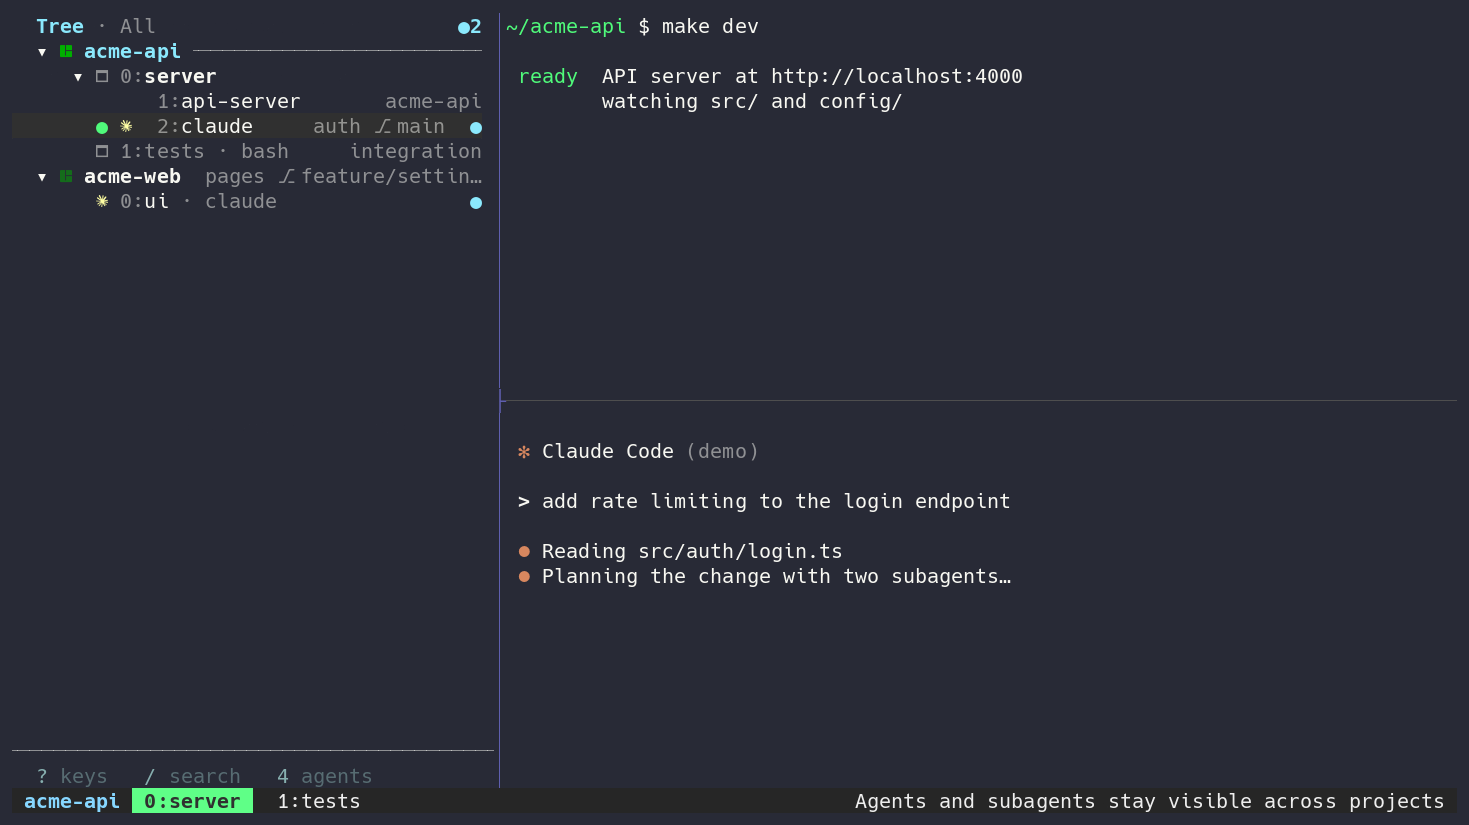
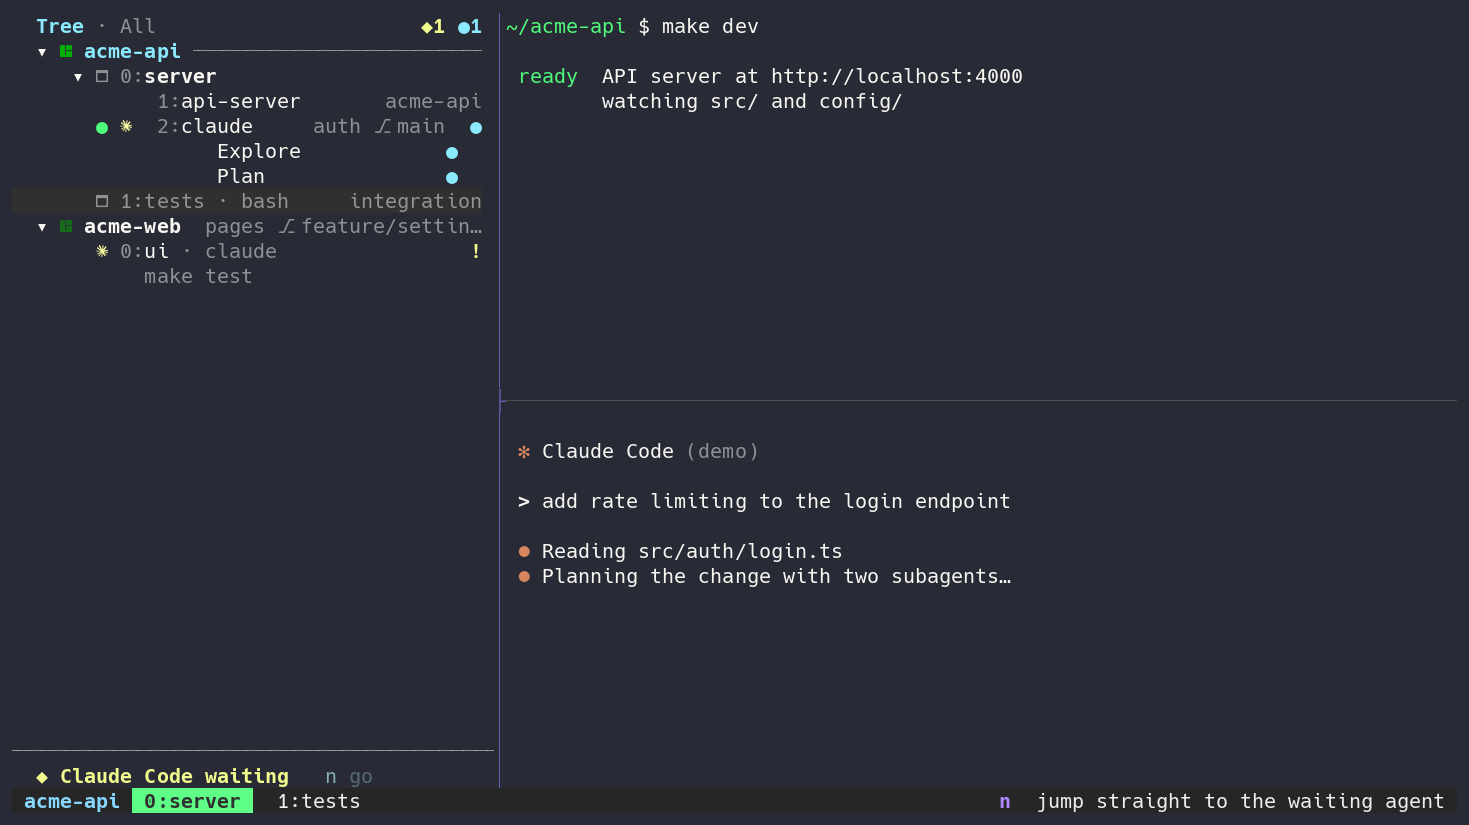
show agent toggle and help in demo

diff --git a/docs/demo/record.py b/docs/demo/record.py
@@ -35,7 +35,7 @@ def main():
     parser.add_argument('--output', default=str(ROOT / 'docs' / 'assets'), help='directory for the .cast and .gif')
     parser.add_argument('--font-family', default='Hack Nerd Font Mono,JetBrains Mono,Menlo')
     parser.add_argument('--theme', default='dracula')
-    parser.add_argument('--poster', type=float, default=26, help='preview GIF time in seconds for the still')
+    parser.add_argument('--poster', type=float, default=41, help='preview GIF time in seconds for the still')
     parser.add_argument('--demo', choices=('both', 'preview', 'walkthrough'), default='both')
     args = parser.parse_args()
     if args.demo == 'both':
@@ -359,6 +359,17 @@ tmux() {{
                 caption(f'{key}prefix T{plain}  open Canopy')
                 keys('C-b', 'T', pause=.15)
                 time.sleep(2.2)
+                caption(f'{key}A{plain}  turn agent monitoring off')
+                keys('A', pause=.2)
+                time.sleep(2.6)
+                caption(f'{key}A{plain}  turn agent monitoring back on')
+                keys('A', pause=.2)
+                time.sleep(2.6)
+                caption(f'{key}?{plain}  open the built-in help')
+                keys('?', pause=.2)
+                time.sleep(2.5)
+                keys('q', pause=.2)
+                time.sleep(1.2)
                 caption(f'{key}j k{plain}  browse · {key}h l{plain}  fold branches')
                 keys('j', 'j', 'k', pause=.3)
                 time.sleep(1.3)

diff --git a/CHANGELOG.md b/CHANGELOG.md
@@ -7,7 +7,7 @@
 - In `quiet`, every view names itself the same way. The Processes and Buffers views read `Processes` and `Buffers` with their row count on the right (`12 processes`) instead of a tab strip, and gain a footer with their main action and the way back (`Enter focus   1 tree   a actions`). With agent mode off, the Tree header says `agent mode off`, so it no longer looks like a server with no agents running.
 - Previews show a directory under your home directory as `~/…` in the window preview and the agent summary too, as the pane preview already did, leaving room for the rest of the path.
 - Each plugin load removes everything at Canopy's own tmux hook indexes (9000-9099) and command-alias indexes (9100-9199) before adding what the current settings need, instead of a fixed list of hooks. A hook an older version left at those indexes is cleared too; your own hooks and aliases at other indexes are untouched. Settings with fixed values or a number now share one check each, with the default written once.
-- The README demo now starts at a blank terminal and builds a tmux workspace before opening Canopy. Its high-resolution 16:9 recording uses larger text, a cleaner tmux status line, and a visible session/window/pane workflow. Fictional repositories, branches, nested project directories, a development server, and test files make the resulting panes look like active work before the sidebar and agent-monitoring tour.
+- The README demo now starts at a blank terminal and builds a tmux workspace before opening Canopy. Its high-resolution 16:9 recording uses larger text, a cleaner tmux status line, and a visible session/window/pane workflow. Fictional repositories, branches, nested project directories, a development server, and test files make the resulting panes look like active work. The sidebar tour toggles agent monitoring, opens the built-in help, and then demonstrates cross-session agent awareness.
 
 ### Fixed
 

diff --git a/README.md b/README.md
@@ -10,9 +10,9 @@ Canopy keeps your sessions, windows, and panes in a persistent tree that follows
 
 ## Preview
 
-[![Canopy demo: start tmux, create and rename windows, split a pane, open the sidebar, browse the tree, and jump to an agent waiting in another session](docs/assets/canopy-demo.gif?v=9)](docs/assets/canopy-demo.gif?v=9)
+[![Canopy demo: build a tmux workspace, open the sidebar, toggle agent monitoring, view help, browse the tree, and jump to a waiting agent](docs/assets/canopy-demo.gif?v=10)](docs/assets/canopy-demo.gif?v=10)
 
-**Build a tmux workspace, then see it from above.** This 38-second demo starts at a blank shell, builds windows and panes across two fictional projects, runs a development server, opens Canopy, and jumps to an agent waiting in another session. Scripted fixtures and agent events keep the recording reproducible and private. [Watch the focused feature tour](docs/assets/canopy-walkthrough.gif?v=9) for search, previews, Agents view, alerts, and floating popup mode. [View a still image](docs/assets/canopy-demo.png?v=9).
+**Build a tmux workspace, then see it from above.** This 47-second demo starts at a blank shell, builds windows and panes across two fictional projects, runs a development server, opens Canopy, toggles agent monitoring, shows the built-in help, and jumps to an agent waiting in another session. Scripted fixtures and agent events keep the recording reproducible and private. [Watch the focused feature tour](docs/assets/canopy-walkthrough.gif?v=10) for search, previews, Agents view, alerts, and floating popup mode. [View a still image](docs/assets/canopy-demo.png?v=10).
 
 ## Quick start
 
